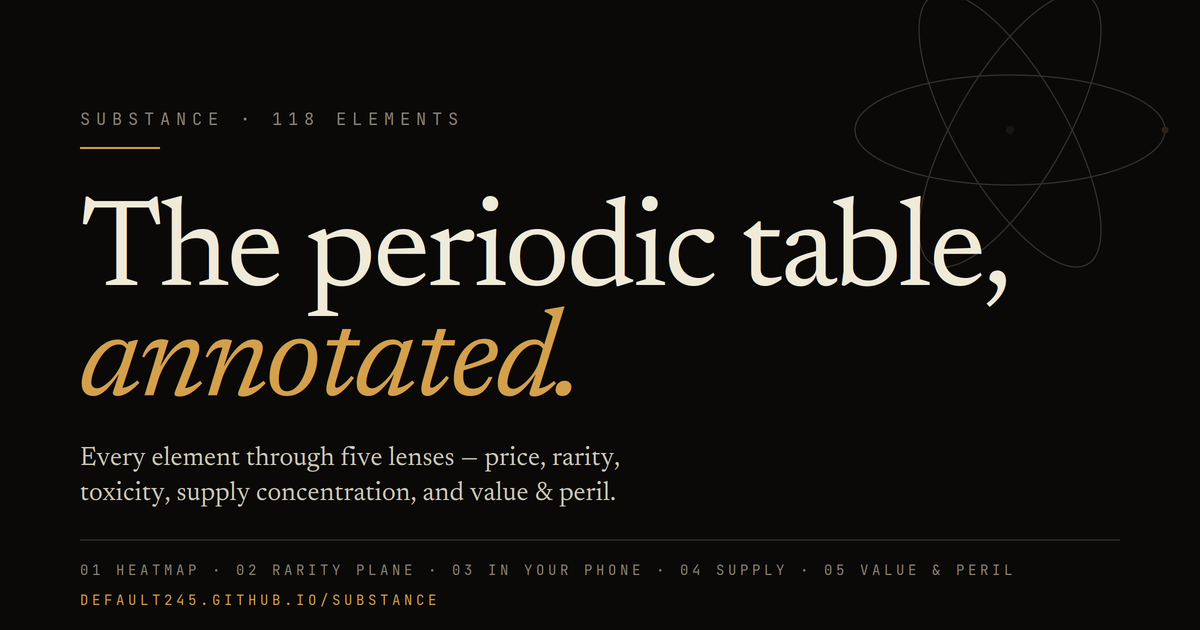
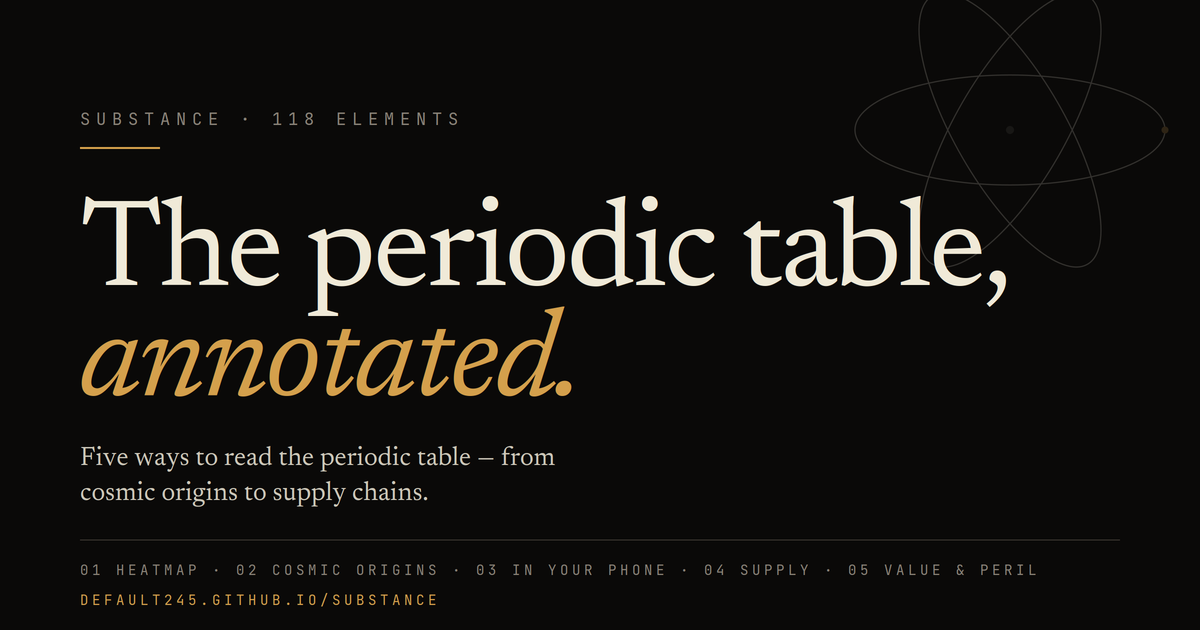
fix: stale OG copy + meta/dek alignment + cleanup

diff --git a/index.html b/index.html
@@ -4,7 +4,7 @@
 <meta charset="UTF-8">
 <meta name="viewport" content="width=device-width, initial-scale=1.0, maximum-scale=3.0">
 <title>Substance — An interactive periodic table</title>
-<meta name="description" content="An interactive periodic table where every element carries four statistics — abundance, price, toxicity, and supply concentration. Switch lenses to read the same atoms differently.">
+<meta name="description" content="An interactive periodic table where every element carries four numbers — abundance, price, toxicity, top producer — read through five thematic lenses.">
 
 <!-- Favicons -->
 <link rel="icon" type="image/x-icon" href="favicon.ico">
@@ -15,7 +15,7 @@
 <meta property="og:type" content="website">
 <meta property="og:url" content="https://default245.github.io/substance/">
 <meta property="og:title" content="Substance — An interactive periodic table">
-<meta property="og:description" content="Every element through five lenses — price, rarity, toxicity, supply concentration, and value & peril.">
+<meta property="og:description" content="Five ways to read the periodic table — heatmap, cosmic origins, what's in your phone, supply concentration, and value & peril.">
 <meta property="og:image" content="https://default245.github.io/substance/og.png">
 <meta property="og:image:width" content="1200">
 <meta property="og:image:height" content="630">
@@ -23,7 +23,7 @@
 <!-- Twitter -->
 <meta name="twitter:card" content="summary_large_image">
 <meta name="twitter:title" content="Substance — An interactive periodic table">
-<meta name="twitter:description" content="Every element through five lenses.">
+<meta name="twitter:description" content="Five ways to read the periodic table.">
 <meta name="twitter:image" content="https://default245.github.io/substance/og.png">
 
 <link rel="preconnect" href="https://fonts.googleapis.com">
@@ -217,8 +217,6 @@
     border-color: var(--amber);
   }
   .cell.search-hide { opacity: 0.08; }
-  .plane-dot.search-hide { opacity: 0.08; }
-  .plane-label.search-hide { opacity: 0.1; }
   @media (max-width: 700px) {
     .lens-search-wrap { width: auto; margin-left: 1rem; margin-right: 1rem; margin-top: 0.5rem; }
     .lens-search { width: 100%; }
@@ -475,67 +473,6 @@
     .mobile-grid { display: grid; }
   }
 
-  /* ============ PLANE (scatter) ============ */
-  .plane-wrap {
-    position: relative;
-    aspect-ratio: 16 / 10;
-    max-width: 1100px;
-    margin: 0 auto;
-    background:
-      linear-gradient(to right, transparent 0, transparent calc(100% - 1px), var(--rule-soft) calc(100% - 1px)),
-      linear-gradient(to bottom, transparent 0, transparent calc(100% - 1px), var(--rule-soft) calc(100% - 1px));
-    background-size: 10% 100%, 100% 10%;
-    border: 1px solid var(--rule);
-    border-radius: 3px;
-    overflow: hidden;
-  }
-  .plane-svg {
-    position: absolute;
-    inset: 0;
-    width: 100%;
-    height: 100%;
-  }
-  .plane-axis {
-    fill: var(--ink-faint);
-    font-family: 'JetBrains Mono', monospace;
-    font-size: 9px;
-    letter-spacing: 0.08em;
-  }
-  .plane-axis-title {
-    fill: var(--ink-mute);
-    font-family: 'JetBrains Mono', monospace;
-    font-size: 10px;
-    letter-spacing: 0.16em;
-    text-transform: uppercase;
-  }
-  .plane-grid {
-    stroke: var(--rule-soft);
-    stroke-width: 1;
-    stroke-dasharray: 2 3;
-  }
-  .plane-dot {
-    cursor: pointer;
-    transition: r 0.15s ease, opacity 0.15s ease;
-  }
-  .plane-dot:hover { r: 6; }
-  .plane-dot.active { stroke: var(--ink); stroke-width: 1.5; }
-  .plane-label {
-    fill: var(--ink-mute);
-    font-family: 'JetBrains Mono', monospace;
-    font-size: 8.5px;
-    pointer-events: none;
-    letter-spacing: 0.02em;
-  }
-  .plane-label.major { fill: var(--ink); font-weight: 700; }
-  .plane-quadrant-label {
-    fill: var(--ink-faint);
-    font-family: 'Newsreader', serif;
-    font-size: 11px;
-    font-style: italic;
-    pointer-events: none;
-    letter-spacing: 0.02em;
-  }
-
   /* ============ DETAIL ============ */
   .detail {
     max-width: 1200px;
@@ -754,11 +691,6 @@
       <div class="lanth-actinides" id="lanthActinides"></div>
     </div>
     <div class="mobile-grid" id="mobileGrid"></div>
-  </div>
-  <div class="stage-view" id="view-plane">
-    <div class="plane-wrap">
-      <svg class="plane-svg" id="planeSvg" viewBox="0 0 1000 600" preserveAspectRatio="xMidYMid meet"></svg>
-    </div>
   </div>
 </main>
 
@@ -1253,12 +1185,6 @@ function applySearch() {
   document.querySelectorAll('.cell:not(.ln-marker)').forEach(cell => {
     cell.classList.toggle('search-hide', !inSet(+cell.dataset.z));
   });
-  document.querySelectorAll('.plane-dot').forEach(dot => {
-    dot.classList.toggle('search-hide', !inSet(+dot.dataset.z));
-  });
-  document.querySelectorAll('.plane-label').forEach(lbl => {
-    lbl.classList.toggle('search-hide', !inSet(+lbl.dataset.z));
-  });
 
   // Update results badge
   const count = $('searchCount');
@@ -1284,13 +1210,6 @@ function logScale(value, min, max) {
 function linScale(value, min, max) {
   if (value == null) return null;
   return Math.max(0, Math.min(1, (value - min) / (max - min)));
-}
-/* Mix from dark to vivid for amber/steel/rust/sage */
-function tintFor(t, hueRgb) {
-  if (t == null) return null;
-  // Interpolate from 0.05 to 0.95 opacity-equivalent: return rgba string
-  const [r,g,b] = hueRgb;
-  return `rgba(${r},${g},${b},1)`;
 }
 const HUE = {
   amber: [212,160,76],
@@ -1422,7 +1341,6 @@ const METRICS = {
 
 /* ============ CELL FILL ============ */
 function fillForCell(el, lens) {
-  let hue, opacity;
   if (lens === 'heatmap') {
     const m = METRICS[state.metric];
     const v = m.accessor(el);
@@ -1571,93 +1489,6 @@ function countryCode(name) {
     'France':'FR','Ukraine':'UA','global':'··','reactor-bred':'··','lab-only':'··','natural':'··'
   };
   return map[name] || '··';
-}
-
-/* ============ PLANE (scatter) ============ */
-function renderPlane() {
-  const svg = $('planeSvg');
-  const W = 1000, H = 600;
-  const M = { l: 70, r: 60, t: 50, b: 70 };
-  const innerW = W - M.l - M.r, innerH = H - M.t - M.b;
-
-  // Domain: x = abundance log scale, y = price log scale
-  const xDomain = [1e-4, 1e6];
-  const yDomain = [0.05, 5e5];
-
-  const xScale = v => M.l + innerW * (Math.log10(v) - Math.log10(xDomain[0])) / (Math.log10(xDomain[1]) - Math.log10(xDomain[0]));
-  const yScale = v => M.t + innerH - innerH * (Math.log10(v) - Math.log10(yDomain[0])) / (Math.log10(yDomain[1]) - Math.log10(yDomain[0]));
-
-  let parts = [];
-
-  // Frame
-  parts.push(`<rect x="${M.l}" y="${M.t}" width="${innerW}" height="${innerH}" fill="none" stroke="rgba(42,37,32,1)" stroke-width="1"/>`);
-
-  // Gridlines & axes
-  const xTicks = [{v:1e-4,l:'0.0001'}, {v:0.01,l:'0.01'}, {v:1,l:'1'}, {v:100,l:'100'}, {v:10000,l:'10k'}, {v:1e6,l:'1M'}];
-  const yTicks = [{v:0.1,l:'$0.10'}, {v:1,l:'$1'}, {v:10,l:'$10'}, {v:100,l:'$100'}, {v:1000,l:'$1k'}, {v:10000,l:'$10k'}, {v:100000,l:'$100k'}];
-  xTicks.forEach(t => {
-    const x = xScale(t.v);
-    parts.push(`<line class="plane-grid" x1="${x}" y1="${M.t}" x2="${x}" y2="${M.t + innerH}"/>`);
-    parts.push(`<text class="plane-axis" x="${x}" y="${M.t + innerH + 18}" text-anchor="middle">${t.l}</text>`);
-  });
-  yTicks.forEach(t => {
-    const y = yScale(t.v);
-    parts.push(`<line class="plane-grid" x1="${M.l}" y1="${y}" x2="${M.l + innerW}" y2="${y}"/>`);
-    parts.push(`<text class="plane-axis" x="${M.l - 8}" y="${y + 3}" text-anchor="end">${t.l}</text>`);
-  });
-
-  // Axis titles
-  parts.push(`<text class="plane-axis-title" x="${M.l + innerW/2}" y="${H - 18}" text-anchor="middle">← Rarer · crustal abundance ppm · More common →</text>`);
-  parts.push(`<text class="plane-axis-title" x="${-M.t - innerH/2}" y="20" text-anchor="middle" transform="rotate(-90)">Price · $/kg →</text>`);
-
-  // Quadrant labels
-  parts.push(`<text class="plane-quadrant-label" x="${M.l + 16}" y="${M.t + 24}">Rare and dear</text>`);
-  parts.push(`<text class="plane-quadrant-label" x="${M.l + innerW - 16}" y="${M.t + 24}" text-anchor="end">Common but expensive</text>`);
-  parts.push(`<text class="plane-quadrant-label" x="${M.l + 16}" y="${M.t + innerH - 14}">Rare but cheap</text>`);
-  parts.push(`<text class="plane-quadrant-label" x="${M.l + innerW - 16}" y="${M.t + innerH - 14}" text-anchor="end">Common and cheap</text>`);
-
-  // Dots
-  const labeled = new Set(['H','C','O','Si','Fe','Al','Cu','Au','Ag','Pt','Pd','Rh','Li','Co','Nd','Dy','U','Pu','Cf','He','Hg','Pb','Tl','Ga','Ge','In','Ta','W','Os','Re','Ir','As','Be','Cs','Rb']);
-  E.forEach(el => {
-    if (el.price == null || el.abundance == null || el.price <= 0 || el.abundance <= 0) return;
-    const x = xScale(el.abundance);
-    const y = yScale(el.price);
-    const hue = HUE[colorForElement(el)];
-    parts.push(`<circle class="plane-dot" data-z="${el.z}" cx="${x}" cy="${y}" r="4.5" fill="rgb(${hue[0]},${hue[1]},${hue[2]})" fill-opacity="0.85" stroke="rgba(0,0,0,0.5)" stroke-width="0.5"/>`);
-    if (labeled.has(el.sym)) {
-      const major = ['Au','Pt','Cf','Li','Co','Nd','Si','Fe','Cu','U','He'].includes(el.sym);
-      parts.push(`<text class="plane-label ${major ? 'major' : ''}" data-z="${el.z}" x="${x + 7}" y="${y + 3}">${el.sym}</text>`);
-    }
-  });
-
-  svg.innerHTML = parts.join('\n');
-
-  // attach listeners
-  svg.querySelectorAll('.plane-dot').forEach(dot => {
-    dot.addEventListener('click', () => { state._userInitiated = true; selectElement(+dot.dataset.z); state._userInitiated = false; });
-  });
-}
-
-function colorForElement(el) {
-  // Price-driven color in scatter: very pricey = amber, average = steel, toxic=rust override
-  if (el.tox >= 4) return 'rust';
-  if (el.price && el.price >= 10000) return 'amber';
-  if (el.inPhone) return 'sage';
-  return 'steel';
-}
-
-function formatPrice(v) {
-  if (v >= 1e9) return '$' + (v/1e9) + 'B';
-  if (v >= 1e6) return '$' + (v/1e6) + 'M';
-  if (v >= 1e3) return '$' + (v/1e3) + 'k';
-  if (v >= 1) return '$' + v;
-  return '$' + v;
-}
-function formatPpm(v) {
-  if (v >= 1e3) return v.toExponential(0).replace('e+', 'e');
-  if (v >= 1) return v + '';
-  if (v >= 1e-3) return v.toFixed(3);
-  return v.toExponential(0).replace('e-', 'e-');
 }
 
 /* ============ LENS CONTROLS ============ */
@@ -1822,8 +1653,8 @@ function selectElement(z) {
   `;
 
   // highlight cell
-  document.querySelectorAll('.cell, .plane-dot').forEach(c => c.classList.remove('active'));
-  document.querySelectorAll(`.cell[data-z="${z}"], .plane-dot[data-z="${z}"]`).forEach(c => c.classList.add('active'));
+  document.querySelectorAll('.cell').forEach(c => c.classList.remove('active'));
+  document.querySelectorAll(`.cell[data-z="${z}"]`).forEach(c => c.classList.add('active'));
 
   // On mobile, scroll the detail panel into view so the user sees the result of their tap
   if (isMobile && state._userInitiated) {
@@ -1869,13 +1700,11 @@ function groupName(el) {
 function setLens(lens) {
   state.lens = lens;
   document.querySelectorAll('.lens').forEach(b => b.classList.toggle('active', b.dataset.lens === lens));
-  $('view-table').classList.add('active');
-  $('view-plane').classList.remove('active');
   applyLens();
   renderControls();
   // re-highlight
   if (state.selected) {
-    document.querySelectorAll(`.cell[data-z="${state.selected}"], .plane-dot[data-z="${state.selected}"]`).forEach(c => c.classList.add('active'));
+    document.querySelectorAll(`.cell[data-z="${state.selected}"]`).forEach(c => c.classList.add('active'));
   }
 }
 